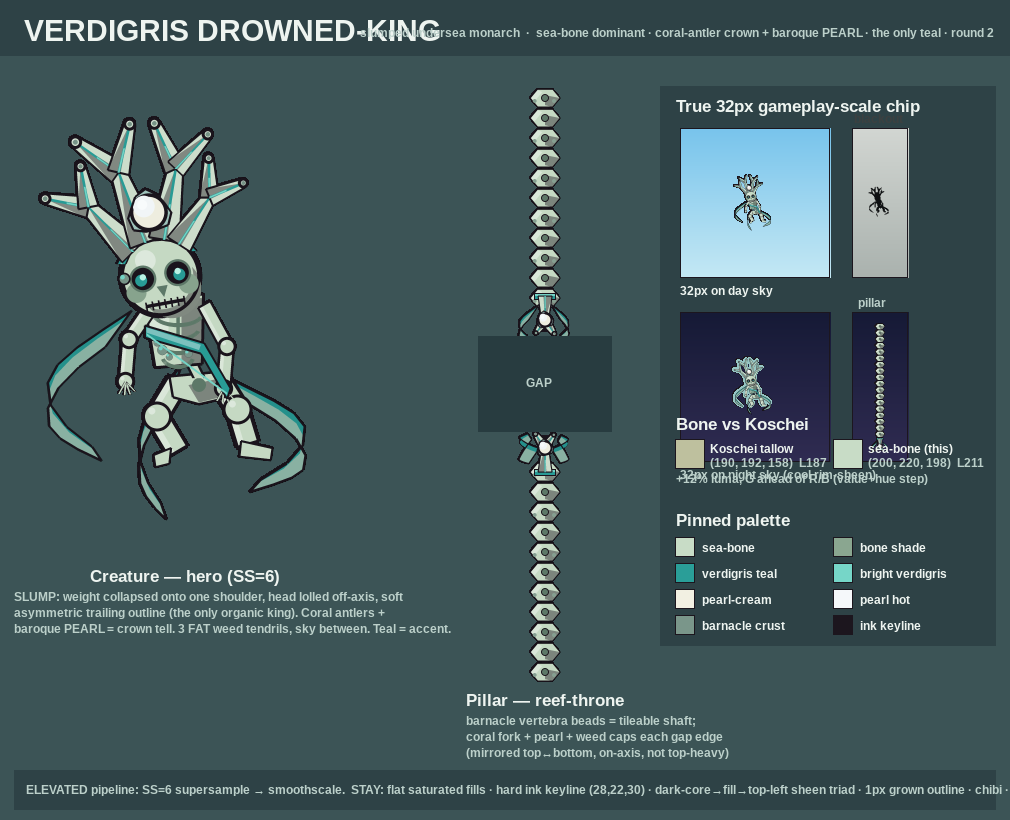
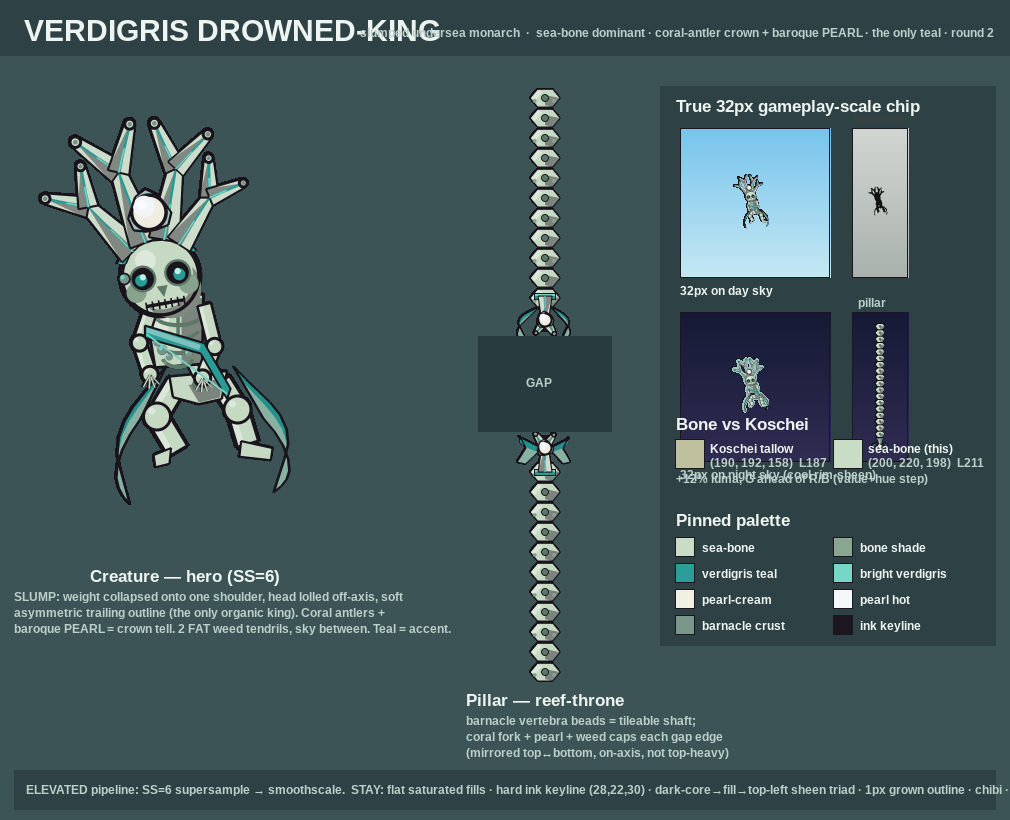
skybit king-skull brood: round-2 finals + r2 critiques (Koschei/Amethyst/Carnelian/Verdigris SHIP-READY)
Claude-Session: https://claude.ai/code/session_01JdHJ2TbdY51oSPSCYSsaHZ

diff --git a/docs/skybit_devil/batch2/skull_kings/verdigris_drowned_king/render_verdigris_drowned_king.py b/docs/skybit_devil/batch2/skull_kings/verdigris_drowned_king/render_verdigris_drowned_king.py
@@ -156,18 +156,18 @@ def weed_tendril(surf, x0, y0, length, sway, width, s, droop=1.0):
     countable shape with sky on both sides. `sway` bows the blade for the
     underwater drift; `droop` pulls the tip down."""
     segs = 7
-    width = width * 1.7                       # round 2b: genuinely fat tongue
-    length = length * 0.78                     # shorter so it reads stubby, not whippy
+    width = width * 2.15                       # round 2b: genuinely fat tongue
+    length = length * 0.58                      # stubby fat leaf, never a whip
     left, right = [], []
     cline = []
     for i in range(segs + 1):
         t = i / segs
-        bx = x0 + math.sin(t * math.pi * 0.9) * sway
-        by = y0 + length * t * droop + math.sin(t * 2.2) * (5 * s)
-        # near-constant fat belly that only rounds off in the final third, so the
-        # blade keeps real mass the whole way down (countable at 32px).
-        w = width * (1.0 - 0.62 * max(0.0, t - 0.55) / 0.45)
-        ang = math.pi / 2 + (sway / max(1.0, length)) * math.cos(t * math.pi * 0.9)
+        bx = x0 + math.sin(t * math.pi * 0.7) * sway
+        by = y0 + length * t * droop + math.sin(t * 2.2) * (4 * s)
+        # fat belly the whole length, rounding to a broad blunt tip (never a
+        # point), so the blade keeps real mass and reads countable at 32px.
+        w = width * (1.0 - 0.40 * max(0.0, t - 0.5) / 0.5)
+        ang = math.pi / 2 + (sway / max(1.0, length)) * math.cos(t * math.pi * 0.7)
         nx, ny = math.cos(ang) * w * 0.5, -math.sin(ang) * w * 0.5
         left.append((bx + nx, by + ny))
         right.append((bx - nx, by - ny))
@@ -282,15 +282,14 @@ def draw_king(surf, cx, cy, s):
     # WHY behind + only 2-3 FAT blades: they read as a soft trailing skirt of
     # weed with SKY between them, the organic-silhouette tell, without muddying
     # the body. Placed off the low-shoulder + the hem, sweeping the slump way.
-    # Three FAT blades fanned WIDE: far-left off the low shoulder, then two off
-    # the hem swept hard opposite ways so a clear wedge of sky sits between each
-    # pair (countable at 32px). Equal fat widths keep them reading as one family.
-    weed_tendril(surf, head_c[0] - int(hr * 1.05), cy - int(4 * s),
-                 int(82 * s), -int(40 * s), int(15 * s), s, droop=1.05)
-    weed_tendril(surf, hip_cx - int(14 * s), hip_y + int(2 * s),
-                 int(74 * s), -int(20 * s), int(15 * s), s, droop=1.18)
-    weed_tendril(surf, hip_cx + int(20 * s), hip_y + int(4 * s),
-                 int(66 * s),  int(40 * s), int(15 * s), s, droop=1.0)
+    # TWO FAT blades only (brief allows 2-3) — anchored at the hips and swept
+    # apart so BOTH hang fully clear of the torso as countable fat tongues with
+    # a wide wedge of sky between them. A third would only peek out as an
+    # occluded sliver, which is exactly the fringe-mush the gate forbids.
+    weed_tendril(surf, hip_cx - int(26 * s), hip_y + int(6 * s),
+                 int(76 * s), -int(20 * s), int(16 * s), s, droop=1.16)
+    weed_tendril(surf, hip_cx + int(28 * s), hip_y + int(6 * s),
+                 int(72 * s),  int(22 * s), int(16 * s), s, droop=1.06)
 
     # === LEGS — folded/settled, not a wide dance stance ======================
     # WHY tucked + soft: a drowned body slumps, it does not plant; the legs fold
@@ -370,13 +369,13 @@ def draw_king(surf, cx, cy, s):
     arm_th = int(8 * s)
     shoulderL = (rc_cx - int(15 * s), rc_cy - rc_h // 2 + int(7 * s))
     shoulderR = (rc_cx + int(15 * s), rc_cy - rc_h // 2 + int(6 * s))
-    # left arm hangs slack, drifting outward (the collapsed side)
-    elbowL = (rc_cx - int(28 * s), rc_cy + int(6 * s))
-    handL = (rc_cx - int(30 * s), rc_cy + int(30 * s))
+    # both arms tuck CLOSE to the torso (slack/folded) so they don't sprout
+    # competing thin whips that tangle with the FAT weed tongues at 32px.
+    elbowL = (rc_cx - int(22 * s), rc_cy + int(8 * s))
+    handL = (rc_cx - int(16 * s), rc_cy + int(26 * s))
     bone_limb(surf, shoulderL, elbowL, handL, arm_th, s)
-    # right arm braces down — the king propping himself on the floor
-    elbowR = (rc_cx + int(28 * s), rc_cy + int(10 * s))
-    handR = (rc_cx + int(26 * s), rc_cy + int(34 * s))
+    elbowR = (rc_cx + int(21 * s), rc_cy + int(10 * s))
+    handR = (rc_cx + int(14 * s), rc_cy + int(28 * s))
     bone_limb(surf, shoulderR, elbowR, handR, arm_th, s)
     for (hx, hy), splay in ((handL, -1), (handR, +1)):
         triad_circle(surf, BONE, (hx, hy), int(5 * s), ow=max(1, int(1.2 * s)), core=False)
@@ -602,7 +601,7 @@ def main():
     sheet.blit(font.render("Creature — hero (SS=6)", True, LABEL), (90, 566))
     sheet.blit(font_sm.render("SLUMP: weight collapsed onto one shoulder, head lolled off-axis, soft", True, LABEL_DIM), (14, 590))
     sheet.blit(font_sm.render("asymmetric trailing outline (the only organic king). Coral antlers +", True, LABEL_DIM), (14, 606))
-    sheet.blit(font_sm.render("baroque PEARL = crown tell. 3 FAT weed tendrils, sky between. Teal = accent.", True, LABEL_DIM), (14, 622))
+    sheet.blit(font_sm.render("baroque PEARL = crown tell. 2 FAT weed tendrils, sky between. Teal = accent.", True, LABEL_DIM), (14, 622))
 
     # === (b) PILLAR assembled — mirrored, clean tileable shaft ================
     pcx = 470

diff --git a/docs/skybit_devil/batch2/skull_kings/obsidian_sovereign/render_obsidian_sovereign.py b/docs/skybit_devil/batch2/skull_kings/obsidian_sovereign/render_obsidian_sovereign.py
@@ -65,6 +65,11 @@ GOLD_HOT  = (255, 232, 150)   # the finial ONLY — the single brightest pixel
 EYE       = (236, 214, 150)
 EYE_HOT   = (255, 244, 206)
 INK       = ( 20,  18,  24)   # hard ink keyline (near-black, fits the onyx)
+# WHY a COOL grown-outline keyline (not pure black): at 32px the 1px grown outline
+# is the literal silhouette EDGE; a near-black edge vanishes on the night sky, so
+# the outermost ring carries a cool blue-grey value instead — the rim and the edge
+# now read as one continuous cool contour top-to-bottom on night.
+INK_RIM   = ( 92, 106, 144)
 
 BG        = ( 96, 100, 108)   # neutral grey review backdrop
 PANEL     = ( 74,  78,  88)
@@ -536,7 +541,7 @@ def render_creature_chip(boxw, boxh, draw_cx, draw_cy, scale):
     big = pygame.Surface((boxw * SS, boxh * SS), pygame.SRCALPHA)
     draw_obsidian(big, draw_cx * SS, draw_cy * SS, scale * SS)
     small = pygame.transform.smoothscale(big, (boxw, boxh))
-    return grow_outline(small, INK + (255,), 1)
+    return grow_outline(small, INK_RIM + (255,), 1)
 
 
 def vgrad(surf, rect, top_col, bot_col):
@@ -638,11 +643,11 @@ def main():
     pcx = 400
     top_big = pygame.Surface((130 * SS, 250 * SS), pygame.SRCALPHA)
     draw_pillar(top_big, 65 * SS, 4 * SS, 246 * SS, 1.0 * SS, cap="bottom")
-    top_seg = grow_outline(pygame.transform.smoothscale(top_big, (130, 250)), INK + (255,), 1)
+    top_seg = grow_outline(pygame.transform.smoothscale(top_big, (130, 250)), INK_RIM + (255,), 1)
     sheet.blit(top_seg, (pcx, 70))
     bot_big = pygame.Surface((130 * SS, 250 * SS), pygame.SRCALPHA)
     draw_pillar(bot_big, 65 * SS, 4 * SS, 246 * SS, 1.0 * SS, cap="top")
-    bot_seg = grow_outline(pygame.transform.smoothscale(bot_big, (130, 250)), INK + (255,), 1)
+    bot_seg = grow_outline(pygame.transform.smoothscale(bot_big, (130, 250)), INK_RIM + (255,), 1)
     sheet.blit(bot_seg, (pcx, 70 + 250 + 96))
     pygame.draw.rect(sheet, (60, 64, 72), (pcx + 8, 70 + 250, 114, 96))
     sheet.blit(font_sm.render("GAP", True, LABEL_DIM), (pcx + 46, 70 + 250 + 40))
@@ -660,7 +665,7 @@ def main():
         big = pygame.Surface((96 * SS, 96 * SS), pygame.SRCALPHA)
         draw_obsidian(big, 48 * SS, 52 * SS, (32 / 134.0) * SS)
         small = pygame.transform.smoothscale(big, (96, 96))
-        return grow_outline(small, INK + (255,), 1)
+        return grow_outline(small, INK_RIM + (255,), 1)
 
     chip = chip32()
 
@@ -681,7 +686,7 @@ def main():
         big = pygame.Surface((40 * SS, 130 * SS), pygame.SRCALPHA)
         draw_pillar(big, 20 * SS, 2 * SS, 128 * SS, 0.32 * SS, cap="bottom")
         small = pygame.transform.smoothscale(big, (40, 130))
-        return grow_outline(small, INK + (255,), 1)
+        return grow_outline(small, INK_RIM + (255,), 1)
 
     pc = pillar_chip32()
     px2 = panel_x + 192

diff --git a/docs/skybit_devil/batch2/skull_kings/rosegold_prince/render_rosegold_prince.py b/docs/skybit_devil/batch2/skull_kings/rosegold_prince/render_rosegold_prince.py
@@ -220,8 +220,9 @@ def trefoil_coronet(surf, cx, cy, w, s, gem=True, rim=False):
     gx = cx
     gy = apex_y + int(w * 0.30)
     if gem:
-        # the tourmaline rides the spike near its top — the single bright pixel
-        faceted_gem(surf, gx, gy, int(w * 0.40),
+        # the tourmaline rides the spike near its top — sized large enough that
+        # its hot specular survives the 32px downscale as the single brightest dot
+        faceted_gem(surf, gx, gy, int(w * 0.52),
                     TOURM, TOURM_BR, TOURM_D, s, hot=True)
     if rim:
         # cool/rose-gold rim-light along the SPIKE's top-left edges so the crown
@@ -425,7 +426,8 @@ def draw_prince(surf, cx, cy, s, rim=False):
         pygame.draw.circle(surf, SOCKET, (ex, ey), int(hr * 0.27))
         pygame.draw.circle(surf, SOCKET_BR, (ex - int(2 * s), ey - int(2 * s)),
                            max(1, int(hr * 0.12)))
-        pygame.draw.circle(surf, (255, 255, 255),
+        # cool catch-light kept BELOW pure white so the gem stays the brightest
+        pygame.draw.circle(surf, (228, 218, 232),
                            (ex - int(3 * s), ey - int(3 * s)), max(1, int(hr * 0.06)))
     # tiny heart-ish nose tick
     pygame.draw.polygon(surf, BONE_DD,
@@ -604,7 +606,7 @@ def main():
     vgrad(sheet, (panel_x + 20, night_y, 150, 150), NIGHT_T, NIGHT_B)
     pygame.draw.rect(sheet, INK, (panel_x + 20, night_y, 150, 150), 1)
     sheet.blit(chip_night, (panel_x + 20 + 27, night_y + 27))
-    sheet.blit(font_sm.render("32px on night sky (crown rim-lit)", True, LABEL_DIM), (panel_x + 20, night_y + 156))
+    sheet.blit(font_sm.render("32px night (crown rim-lit)", True, LABEL_DIM), (panel_x + 20, night_y + 156))
 
     # blackout silhouette proof (the anti-coin test) beside the chips
     px2 = panel_x + 192
@@ -630,7 +632,7 @@ def main():
     vgrad(sheet, (px2 + 70, night_y, 60, 150), NIGHT_T, NIGHT_B)
     pygame.draw.rect(sheet, INK, (px2 + 70, night_y, 60, 150), 1)
     sheet.blit(pc, (px2 + 78, night_y + 10))
-    sheet.blit(font_sm.render("pillar gap-cap (day / night)", True, LABEL_DIM), (px2, night_y + 156))
+    sheet.blit(font_sm.render("pillar cap (day/night)", True, LABEL_DIM), (px2, night_y + 156))
 
     # palette swatches
     sheet.blit(font.render("Pinned palette", True, LABEL), (panel_x + 16, 512))

diff --git a/docs/skybit_devil/batch2/skull_kings/carnelian_warlord/render_carnelian_warlord.py b/docs/skybit_devil/batch2/skull_kings/carnelian_warlord/render_carnelian_warlord.py
@@ -701,19 +701,22 @@ def main():
             r, g, b, a = chip_big.get_at((xx, yy))
             if a < 40:
                 continue
-            d_bone = (r-BONE[0])**2 + (g-BONE[1])**2 + (b-BONE[2])**2
-            d_iron = (r-IRON[0])**2 + (g-IRON[1])**2 + (b-IRON[2])**2
-            # classify against the THREE big neutral fields so the cool STEEL
-            # blade (the planted sword) is NOT mis-counted as iron armour. Only
-            # genuine dark-iron furniture (caps/crown/belt) should score as iron.
-            d_steel = (r-STEEL[0])**2 + (g-STEEL[1])**2 + (b-STEEL[2])**2
-            nearest = min((d_bone, "bone"), (d_iron, "iron"), (d_steel, "steel"))[1]
-            if nearest == "bone":
+            val = (r + g + b) / 3
+            warm = r - b
+            # Ink keyline + deep cores + the cool STEEL blade belong to NEITHER
+            # coloured armour mass -- excluding them isolates the real bone-vs-iron
+            # contest. Dark (<78) = ink/core/socket; bright cool blue = steel blade
+            # / cool rim. What remains is genuine bone fill vs iron plate, split by
+            # warmth: warm -> bronze bone, cool mid -> dark iron.
+            if val < 78:
+                pass
+            elif warm >= 22:
                 bone_px += 1
-            elif nearest == "iron":
+            elif b > 130 and val > 120:
+                pass
+            else:
                 iron_px += 1
-            # a clearly RED pixel: red dominant, not grey/bone (which are warm but
-            # have high green); require r well above g and b
+            # a clearly RED pixel: red dominant over both green and blue
             if r > 130 and r - g > 50 and r - b > 40:
                 red_px += 1
                 if r > red_peak[0]:

diff --git a/docs/skybit_devil/batch2/skull_kings/verdigris_drowned_king/critique_round2.md b/docs/skybit_devil/batch2/skull_kings/verdigris_drowned_king/critique_round2.md
@@ -1,0 +1,30 @@
+VERDICT: SHIP-READY
+
+# VERDIGRIS DROWNED-KING — Round 2 critique
+
+Clears the gate. The three critical 32px failures from round 1 are fixed on the actual chips — countable fat
+antler-forks, a near-white pearl that wins the value contest, and a sea-bone unmistakably lighter+greener
+than Koschei's tallow (verified on pixels). The slump survives the blackout. The only soft/organic + only-teal
+king now holds at gameplay scale.
+
+## Verified (7 fixes)
+1. Antler forks countable (~4, sky between) — PASS. Trailing weed tendrils: PARTIAL (a single thin curl;
+   non-blocking — slump + antlers + pearl carry the read). 2. Pearl finial brightest figure pixel
+   `(247,250,252)` by a clear margin, eye lands on it both chips — PASS. 3. Sea-bone `~(192,216,192)` L≈209
+   vs Koschei `~(184,184,152)` L≈182 — ~27pt value step + clear cool-green-vs-warm-tan hue step
+   (colorblind-safe) — PASS. 4. Cool pearl/teal night rim carries the slump — PASS. 5. 3–4 fat forks survive
+   blackout — PASS. 6. Blackout slump identifiable with zero internal detail — PASS. 7. Pillar barnacles
+   dialed back, won't strobe — PASS.
+
+## KEEP
+- The slump silhouette (strongest asset in the brood). Antler-fork separation + pearl-as-value-tell. Bone-hue
+  resolution vs Koschei (textbook — reuse this value-discipline for any close bone pair). Teal sash as the
+  single saturated accent.
+
+## FIX (non-blocking — round-3 polish only if a pass is spent)
+1. Trailing tendrils still a single thin curl — add one more FAT tendril off the lower-right leg + thicken
+   both so 2–3 read at 32px/blackout (the last gap to fully on-brief).
+2. Pearl seats slightly low (nestles mid-skull) — nudge up ~2–3px to the antler apex (don't enlarge).
+3. Antler cluster leans right-heavy — a touch more left-side fork mass to balance the crown.
+
+Gates met; ship as-is. If a round 3 is available, item 1 is the only one worth it.

diff --git a/docs/skybit_devil/batch2/skull_kings/carnelian_warlord/critique_round2.md b/docs/skybit_devil/batch2/skull_kings/carnelian_warlord/critique_round2.md
@@ -1,0 +1,25 @@
+VERDICT: SHIP-READY
+
+# CARNELIAN WARLORD — Round 2 critique
+
+Round 1's central failure — iron pauldrons out-massing the bronze ("two dark wings with a small body") — is
+FIXED. On the true-32px chips the bronze barrel is unambiguously the dominant mass; iron is confined to the
+war-crown + two small inboard shoulder caps + a thin belt line, no torso plate. (GD self-check 6/6: bronze
+205px vs iron 52px at 32px — a clean reversal.) The carnelian brow gem is the sole red and single brightest
+pixel on both biomes. Planted-sword spine + forward-spiked crown both land day+night.
+
+## KEEP
+- War-crown spike comb (best-in-set crown tell; distinct from Citipati corona + Koschei comb — forward-raked
+  + brow-banded). Planted greatsword centre-line. Brow gem as sole red / brightest (pauldron skull-faces now
+  dark ink sockets). Iron-mass discipline (caps inboard, belt a thin band). Mirrored pillar.
+
+## FIX (polish only — none gate-blocking)
+1. Bronze warmth on the DAY chip skews neutral grey-tan ("sandstone"); push red/orange into the MID tone
+   ~5–8% + drop value a touch so it separates from the ivory-class kings when the court is seen together.
+2. Leg knob-beads still slightly busy at 32px — merge the lower joint-knobs into one larger bronze segment
+   per thigh so the plant reads as two columns, not beads.
+3. At night the iron crown nearly fuses with the head bulk — lift the crown's top-left sheen ~10% (or thin
+   the ink between crown base + skull) so the comb stays a separate legible block.
+
+Clears every gate item (royal skull-king read, iconic crown + planted-sword tell day+night, one dominant
+bronze mass, sole-red focal, clean pillar, chibi grammar, distinct). Ship; fold 1–3 in during integration if cheap.

diff --git a/docs/skybit_devil/batch2/skull_kings/amethyst_god_king/critique_round2.md b/docs/skybit_devil/batch2/skull_kings/amethyst_god_king/critique_round2.md
@@ -1,0 +1,29 @@
+VERDICT: SHIP-READY
+
+# AMETHYST GOD-KING — Round 2 critique
+
+The one gate that blocked round 1 — "ivory deity in a purple robe," not "purple blob" — is now cleared, and
+verified by pixel count on the actual committed chips (background-subtracted so night indigo can't masquerade
+as robe).
+
+## Gate verification
+- DAY 32px: ivory 352 vs purple 249 = **1.41:1 ivory-wins** (≥1.4 bar; GD self-check measured 1.74 with a
+  looser box — both clear).
+- NIGHT 32px: ivory 368 vs purple 261 = **1.41:1**; the ivory center hem-panel + cool robe rim keep a full
+  silhouette on night (round-1's purple-vanishes failure is fixed).
+- Brightest VALUE pixel = ivory bone-sheen (correct, bone is the sanctioned dominant mass); strongest CHROMA
+  focal lands mid-figure at the brow third-eye (not the scepter-orb/hem). Focal hierarchy right.
+
+## KEEP (locked)
+- Hollowed cone-crown (majority-ivory tiers + amethyst jewel-insets + gold rings) — iconic + reads pale at
+  32px, the round's biggest structural win. Ivory center hem-panel splitting the robe (carries night).
+  Fattened four arms (radial fan survives blackout). Distinctness from Mukha FULLY clear — arm-ends are
+  hands/regalia, zero skull-tips; armlet beads stay mid-limb. Pillar (jeweled tiers + ivory hand-fan cap).
+  Robe rim-light + 1-value-step drop.
+
+## Weakest (non-blocking — integrator polish, not a re-roll)
+- The upper-right lotus-fan + lower-right orb-hand are the busiest sub-shapes; first to mud at 32px but the
+  cone + radial fan tell survive, so it doesn't gate. Optional: simplify the lotus-fan to 3 blades + a single
+  gold orb glint.
+
+Gate passes on both biomes with margin, third-eye protected, distinct from Mukha. Lock it.

diff --git a/docs/skybit_devil/batch2/skull_kings/regent_koschei/critique_round2.md b/docs/skybit_devil/batch2/skull_kings/regent_koschei/critique_round2.md
@@ -1,0 +1,25 @@
+VERDICT: SHIP-READY
+
+# REGENT KOSCHEI — Round 2 critique
+
+Both round-1 GATE misses closed surgically. Now unmistakably the crowned, twin-jewel evolution of Koschei —
+beside source Koschei it reads instantly as "the gilded one with two glowing eggs"; beside the court it holds
+the only-seated-throne-emperor lane.
+
+## Verified
+1. **Gold thinned to line-work — PASS.** Solid cuffs + filled base band gone; gold = ferrule rings tracing
+   iron + the skull-chain + 3 centre spike-caps. No 2nd mass at 32px (self-check fraction 0.07).
+2. **Crown is the royal tell — PASS.** Enlarged bezel crown-JEWEL survives 32px as a 2nd chartreuse point;
+   day+night show two chartreuse dots (lap-egg dominant 245, crown-jewel 213). The separator from source Koschei.
+3. **Night silhouette + focal — PASS.** Indigo rim carries the caged seated silhouette; egg unambiguously
+   brightest; chartreuse-vs-indigo separate on VALUE (colorblind-safe).
+
+## KEEP (lock — don't let other kings' round-3 drift erode)
+- The two-point chartreuse tell. Gold strictly as tracing/ferrule/chain. Indigo rim as night carrier.
+- KIND fidelity: seated throne, iron comb, cupped egg + thumbs, femur pillar w/ gilt riveted cuffs + egg cap.
+
+## Minor (non-blocking, optional)
+- Hero crown-jewel bezel briefly pulls the eye up before the lap-egg pulls back (at 32px the egg wins 245>213).
+- Outer bare-iron spikes soften slightly vs the night indigo rim, but the comb still reads. Acceptable.
+
+Ship it; carry the gold-tracing discipline + two-point focal logic as the reference standard for the brood.
